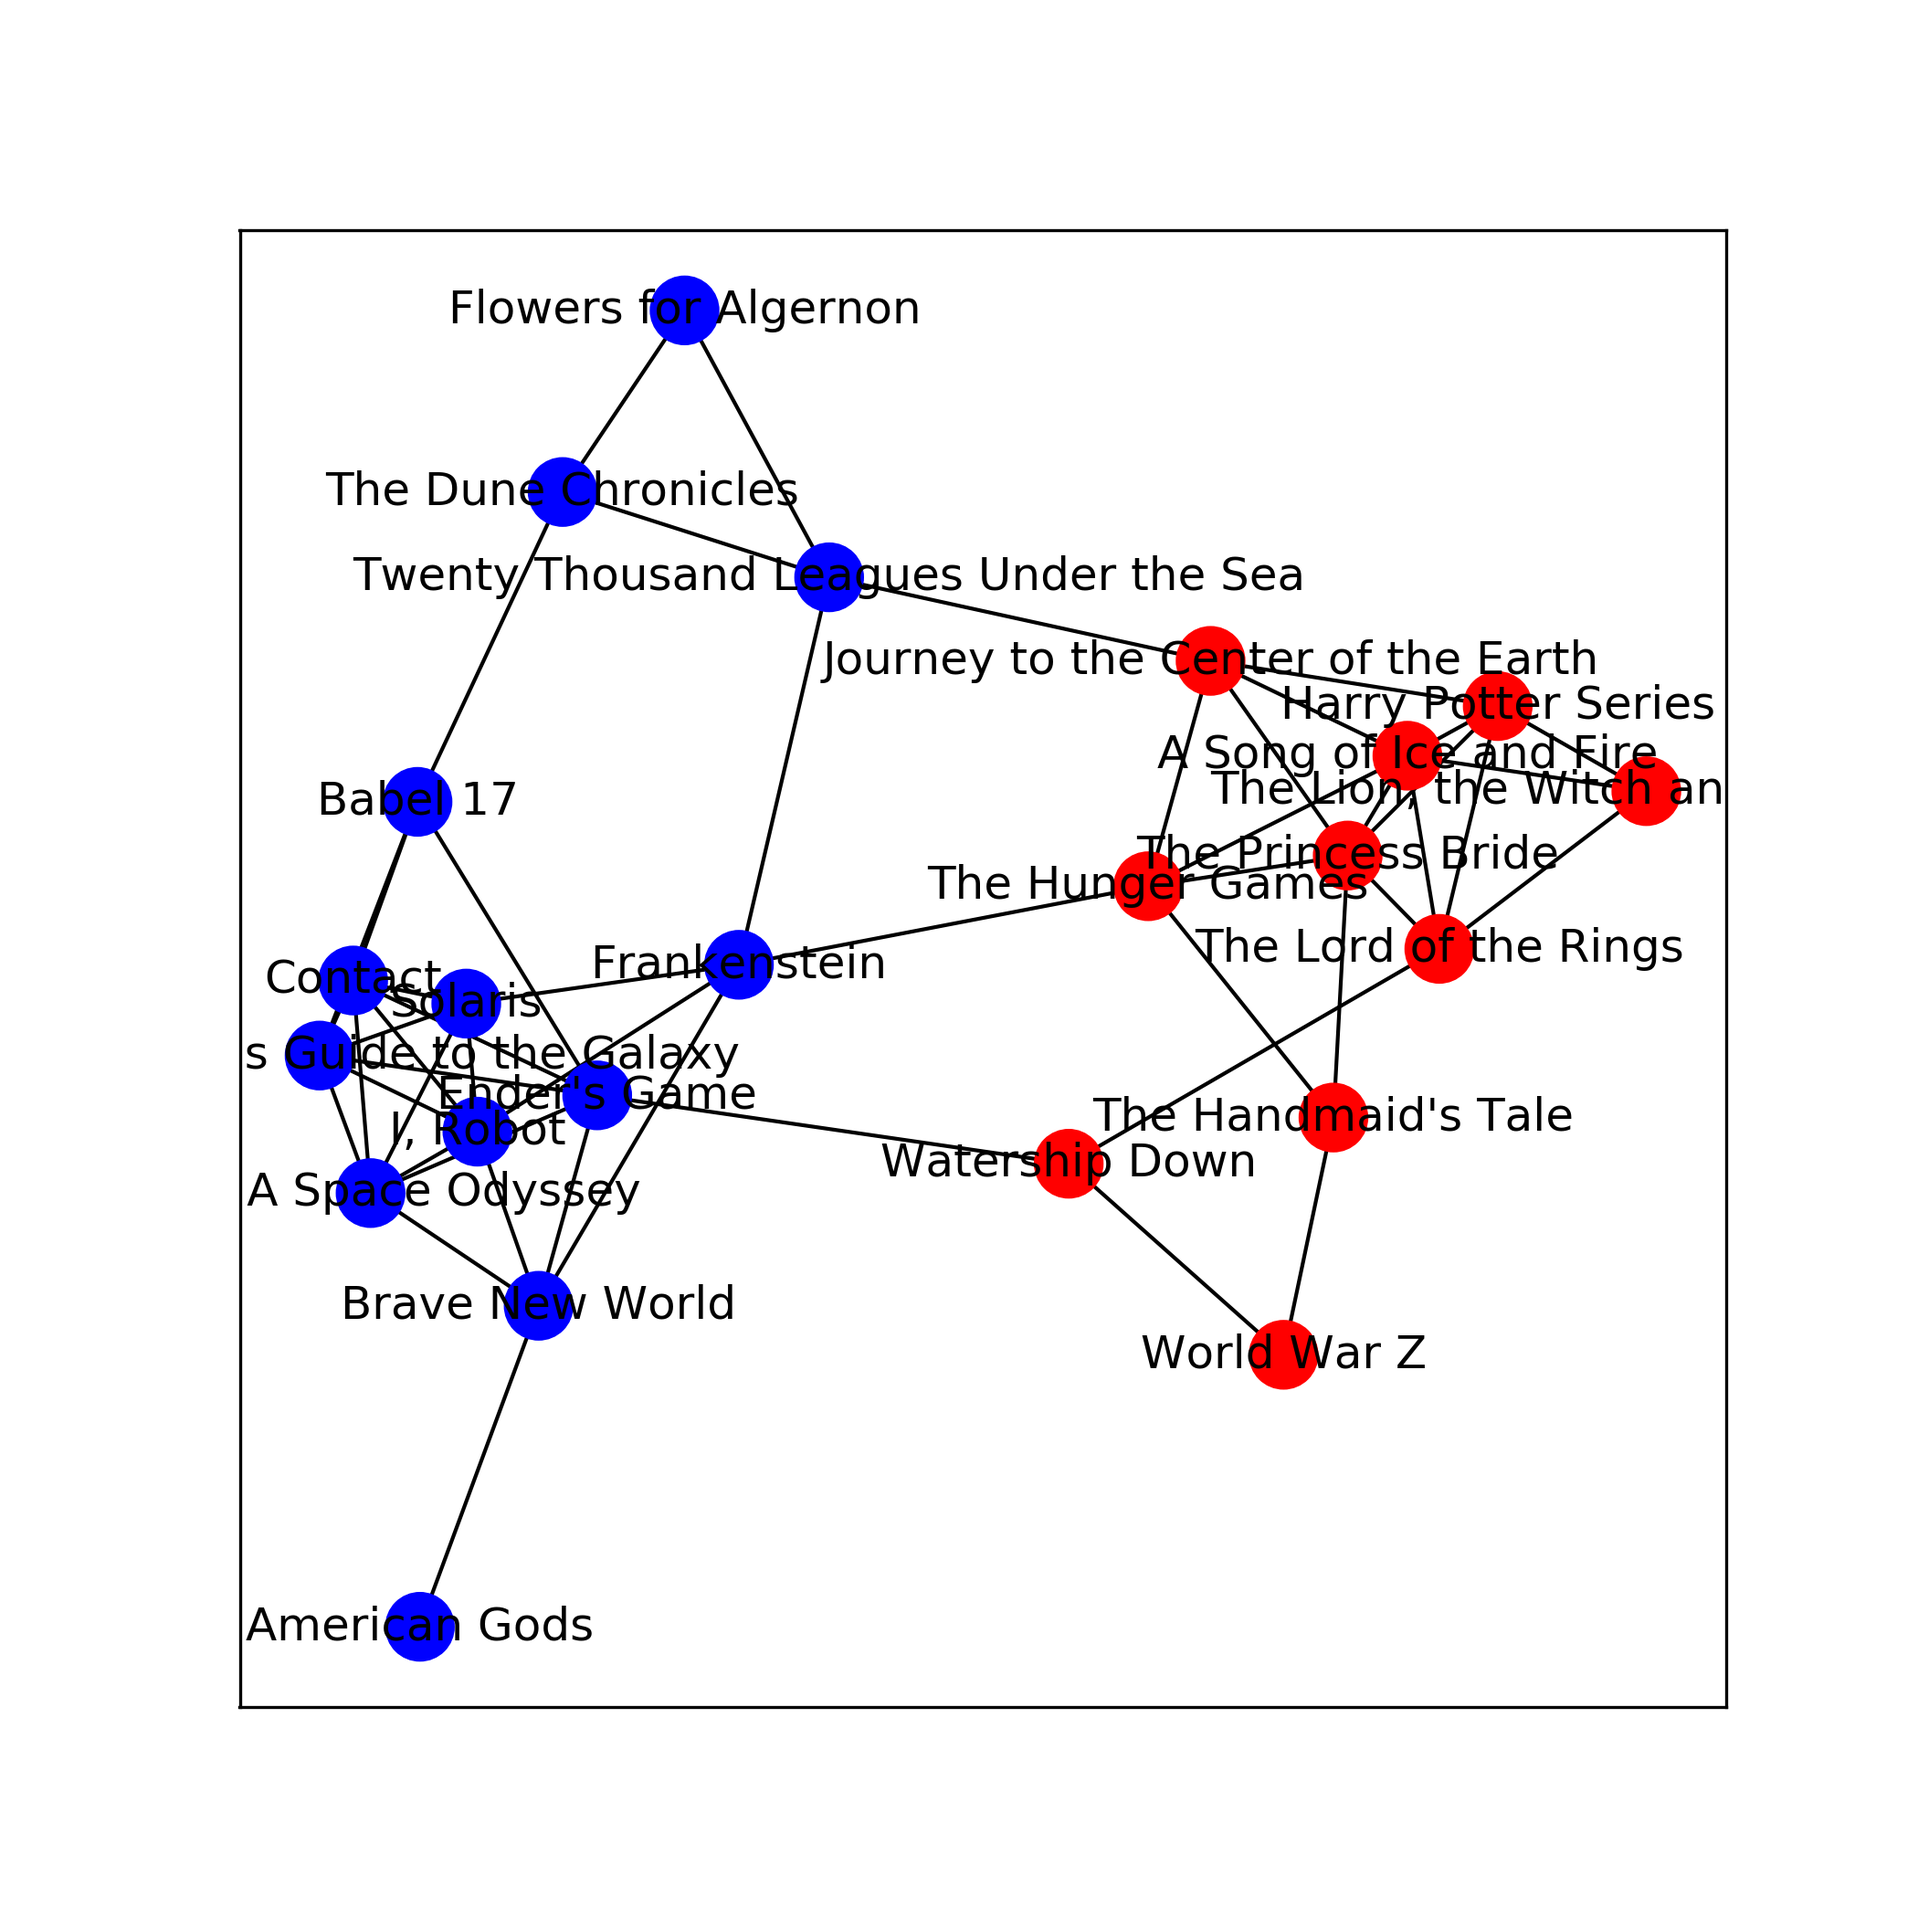
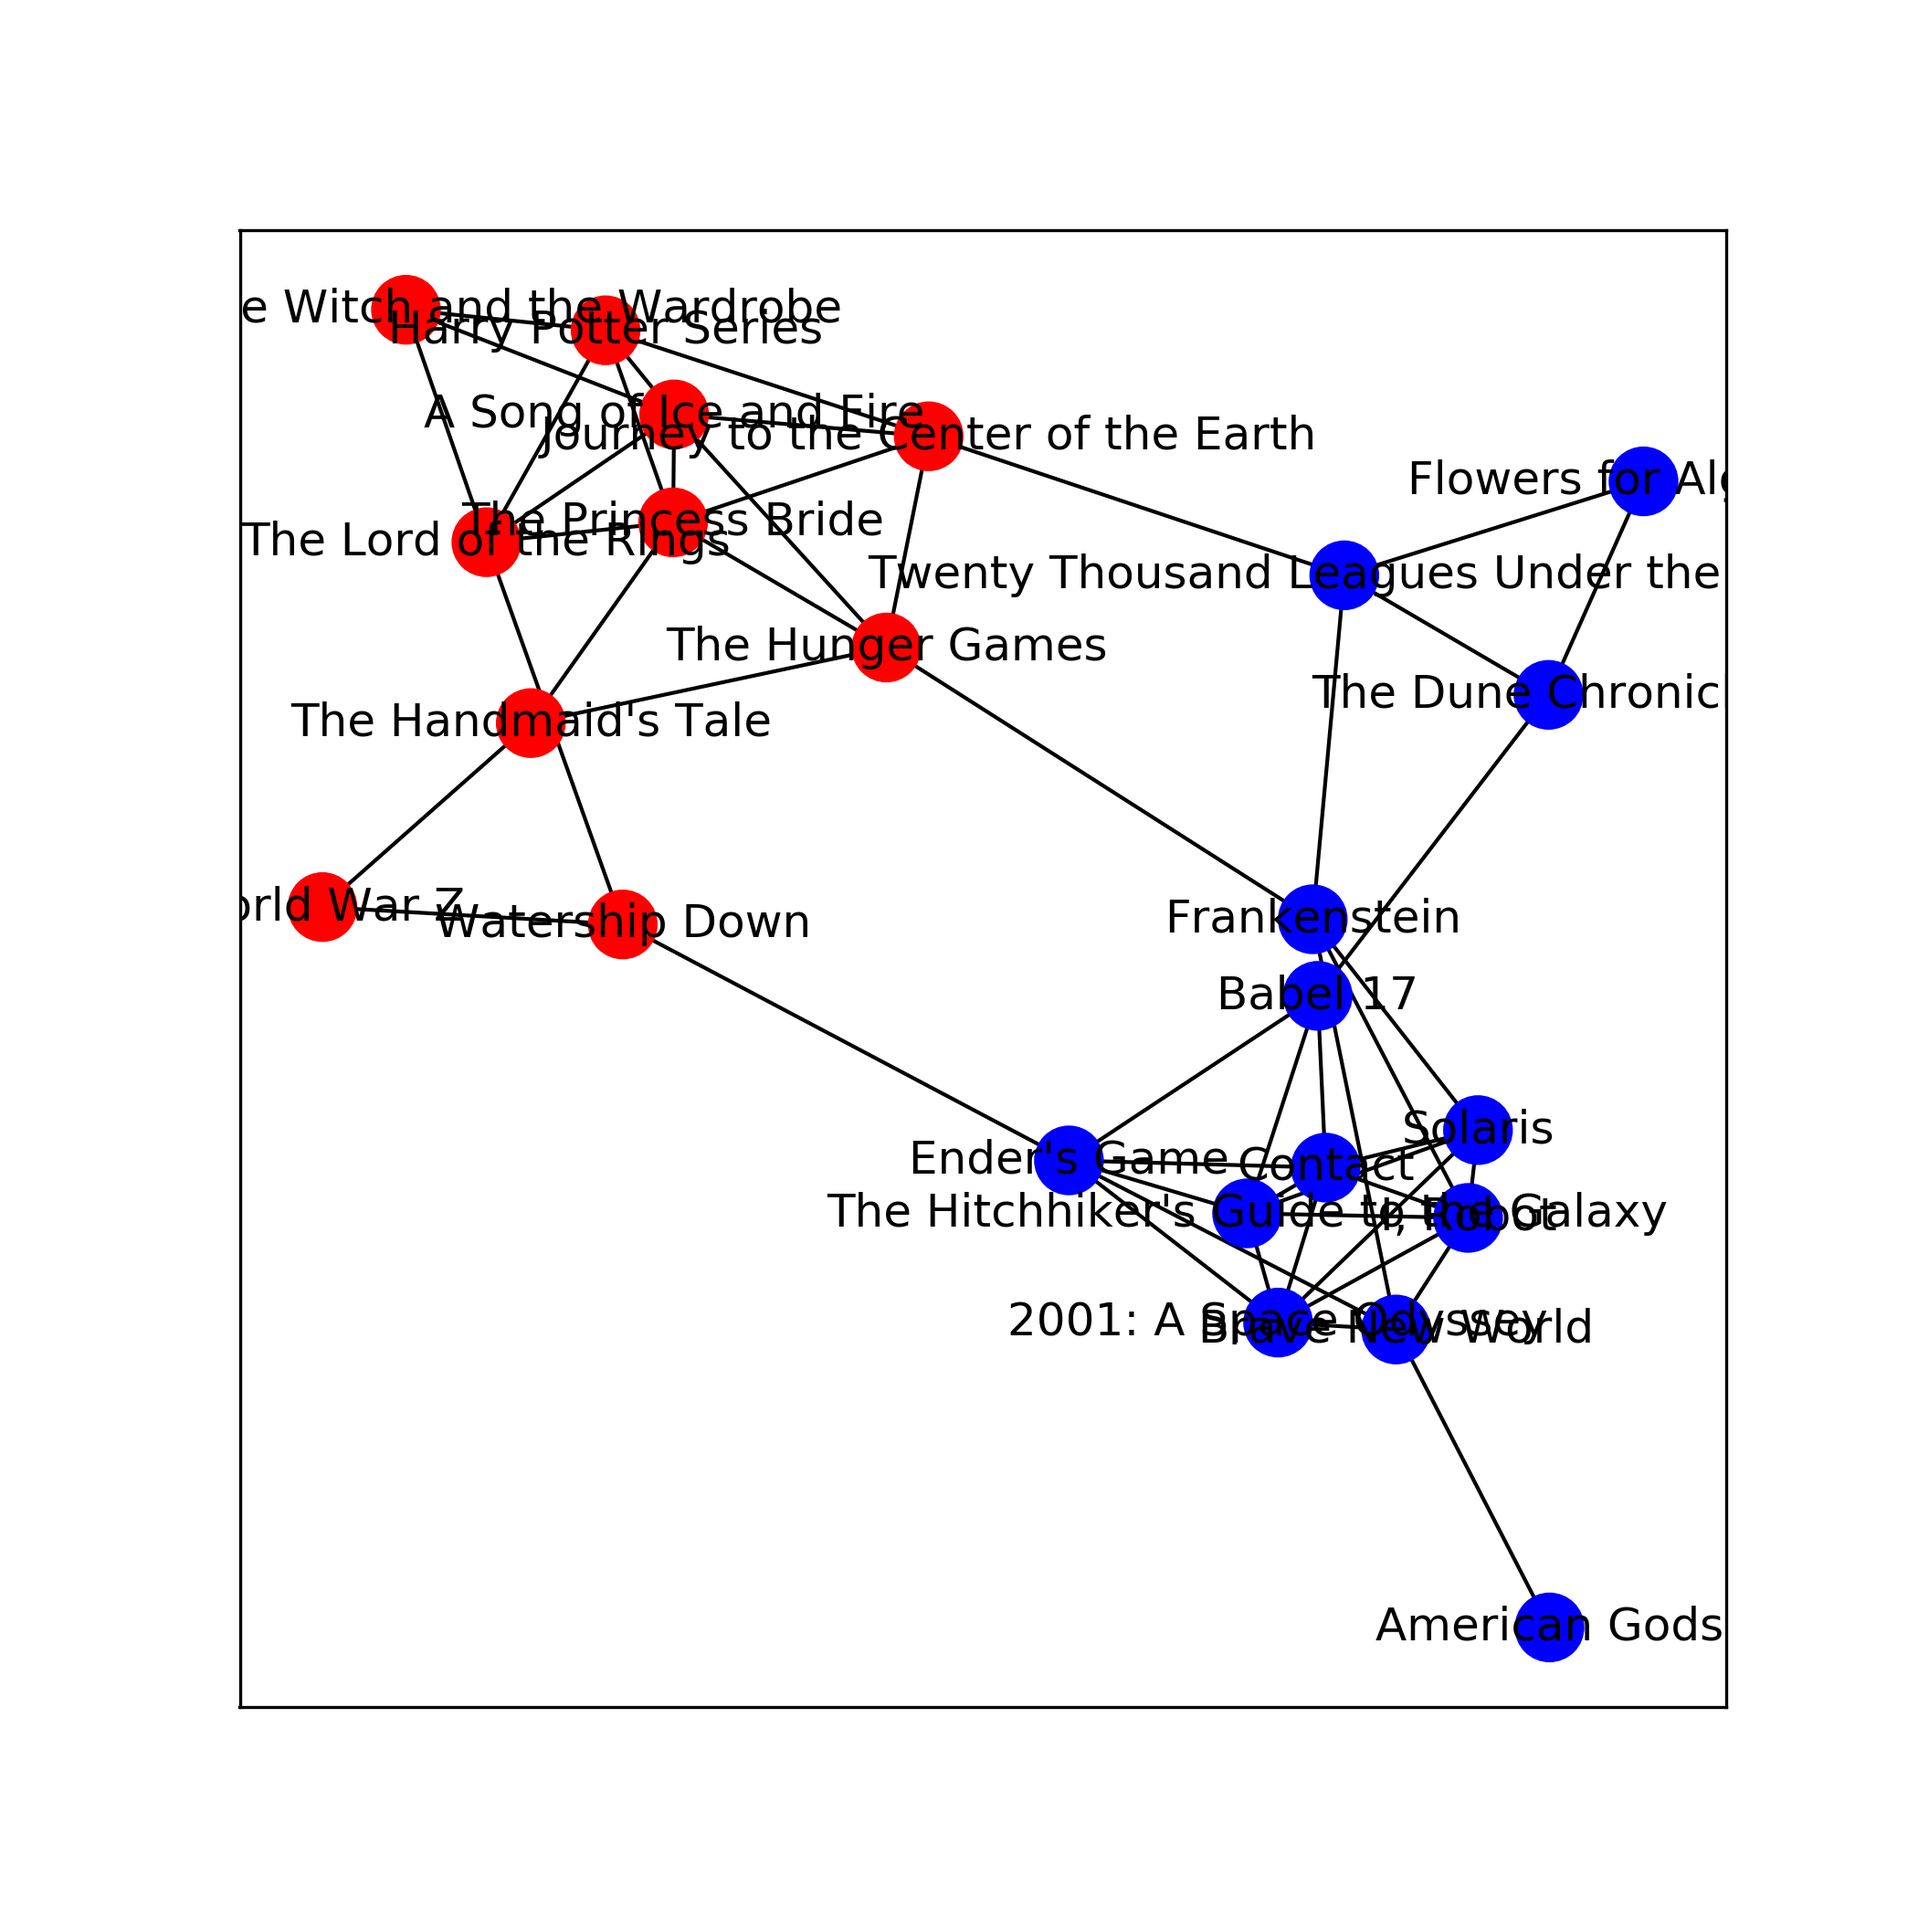
Finishes label propagation

Changed region(s): [[0.1238, 0.1238, 0.8976, 0.7429], [0.7119, 0.8048, 0.8976, 0.8667], [0.1238, 0.8048, 0.3095, 0.8667]]

diff --git a/u2_d04-community/u2_d04-community.html b/u2_d04-community/u2_d04-community.html
@@ -4,7 +4,7 @@
     <title>Community Detection</title>
     <meta charset="utf-8" />
     <meta name="author" content="Giora Simchoni" />
-    <meta name="date" content="2020-01-20" />
+    <meta name="date" content="2020-01-21" />
     <head>
       <link rel="icon" href="../DSApps_logo.jpg" type="image/jpg"> 
       <link rel="shortcut icon" href="../DSApps_logo.jpg" type="image/jpg">
@@ -30,7 +30,7 @@ class: title-slide
 #### `gsimchoni@gmail.com and add #dsapps in subject`
 
 ### Stat. and OR Department, TAU
-### 2020-01-20
+### 2020-01-21
 
 ---
 
@@ -185,7 +185,7 @@ communities[:10]
 ```
 
 ```
-## array([0, 0, 0, 0, 0, 1, 1, 0, 0, 1], dtype=int64)
+## array([1, 1, 1, 1, 1, 0, 0, 1, 1, 0], dtype=int64)
 ```
 
 ---
@@ -266,6 +266,148 @@ Getting the actual dendrogram turned out to be quite laborious, you can see [her
 class: section-slide
 
 # Label Propagation
+
+---
+
+### Proposition 1: Synchronous
+
+1. Initialize a unique label (community) for each node
+2. For each node (in parallel): choose the the most common label in neighbors
+3. If there is a tie: choose label at random
+4. Go back to 2 until some stopping criteria (e.g. no change)
+
+.font80percent[
+Notice the beautiful idea of information diffusion, very democratic
+]
+
+Pros                          | Cons
+----------------------------- | -----------------------
+Relatively fast (in parallel) | May not converge
+                              | Reproducibility issue
+                              
+.insight[
+💡 Can you think of a network that will never converge?
+]
+
+---
+
+### Proposition 2: Asynchronous
+
+1. Initialize a unique label (community) for each node
+2. Decide on a nodes permutation
+3. For each node (one after the other): choose the the most common label in neighbors
+4. If there is a tie: choose label at random
+5. Go back to 2 until some stopping criteria (e.g. no change)
+
+
+Pros               | Cons
+------------------ | -----------------------
+Relatively slow    | Even worse reproducibility issue, no single solution
+Better convergence | "Monster communities"
+
+---
+
+### Improving Convergence
+
+- Smarter tie breakers:
+  - If the node is labelled with one of the tied labels in its neighborhood - keep it
+  - Set an order on labels (e.g. `\(1, ..., l\)`) and always choose the max label
+  - Or both
+
+- Stopping Criterion
+  - Unfortunately "no change in labels" may be too an optimistic criterion to achieve.
+  - "Equilibrium": if in the current structure each node has a label no different than the majority label in its neighborhood - stop. In other words: if in the next iteration nodes will change label only due to ties - stop.
+
+---
+
+class: section-slide
+
+# Detour: The Network Coloring Problem
+
+---
+
+Can you color a network using as few colors as possible, where no two adjacent nodes share the same nodes?
+
+
+```python
+F = nx.petersen_graph()
+color_dict = nx.coloring.greedy_color(F)
+colors = ['green', 'red', 'blue']
+node_colors = [colors[color_ind] for node, color_ind in color_dict.items()]
+nx.draw_shell(F, node_list=F.nodes, node_color=node_colors)
+plt.show()
+```
+
+&lt;img src="images/Coloring-Problem-1.png" width="30%" /&gt;
+
+.insight[
+💡 Think of a not-so-fast simple algorithm to get this done (A fast algorithm can make this in O(max(deg(G))) time!)
+]
+
+---
+
+The smallest number of colors required to color a given network `\(G\)` is called its *chromatic number*, `\(\chi(G)\)`
+
+.insight[
+💡 What is an "easy" upper bound on `\(\chi(G)\)`?
+]
+
+What is it good for?
+
+- Scheduling: imagine each node is a university course and two courses share an edge if they have common students. How would you schedule exam times, such that no student has to attend two exams at the same time?
+- Political map coloring: no two adjacent countries share a color
+- A network `\(G\)` is bipartite iff `\(\chi(G)=2\)`
+- Sudoku: 9x9=81 cells (nodes), two cells are connected if they are in the same row/column/square. Can you put in each cell 1 out of 9 numbers (colors) such that no two adjacent cells share the same number?
+- And...
+
+---
+
+class: section-slide
+
+# End of Detour
+
+---
+
+### Proposition 3: Both ("Semi-Synchronous")
+
+1. Initialize a unique label (community) for each node
+2.  Network coloring: assign a "color" to the nodes of the network such that no two adjacent nodes share the same color
+3. **In each color group** (one after the other), for each node (in parallel): choose the the most common label in neighbors
+4. If there is a tie: choose a label by one of the "smarter" tie breakers
+5. Go back to 3 until some stopping criteria ("Equilibrium")
+
+.insight[
+💡 Do you see the sense in iterating the nodes in parallel *in each color group*?
+]
+---
+
+
+```python
+communities = nx.community.label_propagation_communities(G)
+
+colors = ['green', 'blue', 'red', 'purple'] # cheating...
+node_colors = []
+books = []
+color_ind = 0
+for comm in communities:
+  node_colors.extend([colors[color_ind]] * len(comm))
+  color_ind += 1
+  books.extend(list(comm))
+
+colors_dict = {book: color for book, color in zip(books, node_colors)}
+book_index = {book: i for i, book in enumerate(G.nodes)}
+sorted_colors_dict = sorted(colors_dict.items(), key=lambda pair: book_index[pair[0]])
+node_colors = [color for book, color in sorted_colors_dict]
+
+plt.figure()
+nx.draw_networkx(G, node_list = G.nodes, node_color = node_colors)
+plt.show()
+```
+
+---
+
+&lt;img src="images/unnamed-chunk-3-1.png" width="70%" /&gt;
+
 
 ---
 
